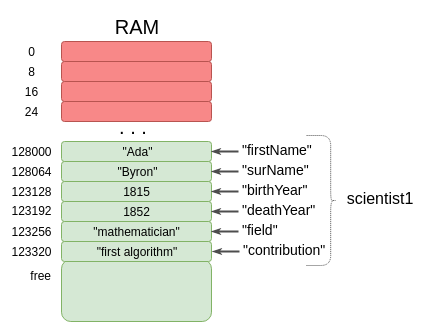
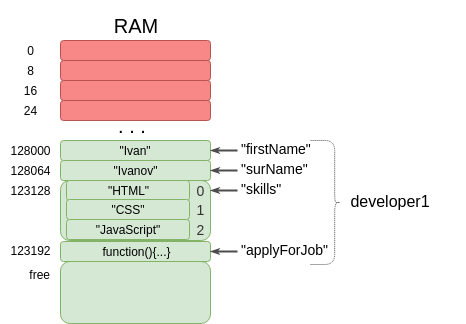
WIP2: JS_Objects Update

Changed region(s): [[0.0307, 0.0619, 0.9835, 1.0], [0.0307, 0.1238, 0.0922, 0.3715], [0.7376, 0.4025, 0.7683, 0.4334]]

diff --git a/pages/themes/beginners/JS_Objects/JS_Objects.html b/pages/themes/beginners/JS_Objects/JS_Objects.html
@@ -78,54 +78,107 @@
             <dt>Когато в дадено свойство имаме функция, тогава това свойство се нарича <span class="note">метод</span> на обекта</dt>            
         </dl>
     </section>
-    <section>
-        <pre><code rel="JS" class="js">
-            var scientist1 = {
-              "firstName": "Ada",
-              "surName": "Byron",
-              "gender" : "female",
-              "lived": [1815, 1852],
-              "profession": "mathematician",
-              "contribution": "implementation of the first ever algorithm, i.e. computer program",
-              "present": function(){
-                  var subjPronoun = (this.gender == "female") ? "She" : "He"; 
-                  var objPronoun = (this.gender == "female") ? "Her" : "His"; 
-                  var str = `${this.firstName} ${this.surName} was a great ${this.profession}. ${subjPronoun} was born in ${this.lived[0]}, and died in ${this.lived[1]}. ${objPronoun} main contribution was the ${this.contribution}.
-                  `;
-                  console.log( str );
-              }
+    <section id="developerObjectByLiteral">
+        <p>Пример за обект:</p>
+        <pre><code rel="JS" class="js bigFont">
+            var developer1 = {
+                // properties:
+                "firstName"     : "Ivan", 
+                "surName"       : "Ivanov",      
+                "skills"        : ["HTML", "CSS", "JavaScript"],
+                // methods:
+                "applyForJob"   : function(){
+                    console.log( this.firstName + " is applying for job!")
+                }
             }
-            
-
-
         </code></pre>
         <dl class="fa">
-            <dt>Редът на </dt>
+            <dt>Редът на създаване на свойствата няма никакво значение, тъй като данните в обектите не са подредени!</dt>
         </dl>
     </section>
+    <section>
+        <p>Ето как, съвсем обобщено, изглежда един обект в паметта:</p>
+        <a href="images/JS_ObjectInRAM_1.png" title="click for bigger image"><img src="images/JS_ObjectInRAM_1.png"></a>
+    </section>
 </section>
-<section><h2>Създаване на еденичен обект</h2>
+
+<section><h2>Създаване на единичен обект</h2>
     <section><h3>Чрез литерал - предпочитания вариант</h3>
         <pre><code rel="JS" class="js">
-            var obj = {}; // създава празен обект
+            // създаване празен обект:
+            var obj = {};
 
+            // създаване на обект с 4 свойства:
             var car1 = {
-                brand: "ford",
-                year: 2016,
-                color: "red",
-                doors: 3   
+                "brand" : "ford",
+                "year"  : 2016,
+                "color" : "red",
+                "doors" : 3   
             }
         </code></pre>
+        <p class="note">Забележете, че след последния елемент на обекта не се слага запетайка!</p>
     </section>
     <section><h3>Чрез глобалния обект Object</h3>
+        <pre><code rel="JS" class="js">
+            var obj = new Object();
+        </code></pre>
+        <p class="note">Този начин за създаване на обект, вече не се използва!</p>
+        <p>Внимавайте да не объркате този вариант с използването на конструктор на обекти, който ще бъде разгледан по-нататък:</p>
+        <pre><code rel="JS" class="js">
+            var obj = new Car();
+        </code></pre>
+    </section>
+</section>
+
+<section><h2>Достъп до свойствата на обект</h2>
+    <section><h3>Чрез точка (Dot Notation)</h3>
+        <pre><code rel="Syntax" class="js">
+            object_name.property_name
+        </code></pre>
+        <p>Ако използваме обекта <code>developer1</code>, създаден <a href="#developerObjectByLiteral">по-горе</a>, то за да достъпим неговите свойства: </p>
+        <pre><code rel="JS" class="js">
+            console.log( developer1.firstName ); //Ivan
+            console.log( developer1.surName );   //Ivanov
+
+            console.log( developer1.skills );    
+            // ["HTML", "CSS", "JavaScript"]
+
+            console.log( developer1.skills[0] ); //"HTML"
+
+            console.log( developer1.applyForJob() ); 
+            // Ivan is applying for job!
+
+            developer1.firstName = "Stoyan";
+            // промяна на свойството "firstName"
+        </code></pre>
+    </section>
+    <section><h3>Чрез квадратни скоби (Square-bracket Notation)</h3>
+        <pre><code rel="Syntax" class="js">
+            object_name[variable_holding_property_name]
+        </code></pre>
+        <p>Отново ще използваме обекта <a href="#developerObjectByLiteral"><code>developer1</code></a></p>
+        <pre><code rel="JS" class="js">
+            // променлива, в която съхраняваме име на свойство:
+            var propName = "firstName";
+            console.log( developer1[propName] ); // Ivan
+
+            developer1[propName] = "Marin"; // променяме свойството "propName"
+        </code></pre>
+    </section>
+</section>
+
+<section><h2>Задачи за упражнение</h2>
+    <section><h3>Task1: developer2 object</h3>
 
     </section>
 </section>
 
 <section class="disclaimer" data-background="/ProgressBG-Front-End-Dev/outfit/images/for_slides/the_end_on_sand.jpg">
      <p>These slides are based on</p>
-     <p>customised version of </p>
-     <p><a href="http://hakim.se/">Hakimel</a>'s <a href="http://lab.hakim.se/reveal-js">reveal.js</a></p>
+     <p>customised version of</p>
+     <p><a href="http://hakim.se/">Hakimel</a>'s <a href="http://lab.hakim.se/reveal-js">reveal.js</a>
+
+     </p>
      <p>framework</p>
 </section>
 <!--

diff --git a/pages/themes/beginners/JS_Objects/examples/slides/objectCreateion.html b/pages/themes/beginners/JS_Objects/examples/slides/objectCreateion.html
@@ -5,45 +5,7 @@
 </head>
 <body>
 	<script type="text/javascript">
-		var scientist1 = {
-      "firstName": "Ada",
-      "surName": "Byron",
-      "gender" : "female",
-      "lived": [1815, 1852],
-      "profession": "mathematician",
-      "contribution": "implementation of the first ever algorithm, i.e. computer program",
-      "present": function(){
-          var subjPronoun = (this.gender == "female") ? "She" : "He"; 
-          var objPronoun = (this.gender == "female") ? "Her" : "His"; 
-
-          var str = `${this.firstName} ${this.surName} was a great ${this.profession}. ${subjPronoun} was born in ${this.lived[0]}, and died in ${this.lived[1]}. ${objPronoun} main contribution was the <b>${this.contribution}</b>.
-          `;
-
-          document.write( str + "<br><br>");
-      }
-  	};
-
-  	var scientist2 = {
-      "firstName": "Ludwig",
-      "surName": "Wittgenstein",
-      "gender" : "male",
-      "lived": [1889, 1951],
-      "profession": "mathematician and logician",
-      "contribution": "creation of picture theory of language, great ideas in philosophy of mathematics",
-      "present": function(){
-          var subjPronoun = (this.gender == "female") ? "She" : "He"; 
-          var objPronoun = (this.gender == "female") ? "Her" : "His";
-
-          var str = `${this.firstName} ${this.surName} was a great ${this.profession}. ${subjPronoun} was born in ${this.lived[0]}, and died in ${this.lived[1]}. ${objPronoun} main contribution was the <b>${this.contribution}</b>.
-          `;
-
-          document.write( str + "<br><br>");
-      }
-    }
-
-
-  	scientist1.present();
-  	scientist2.present();
+		
 
 	</script>
 </body>

diff --git a/pages/themes/beginners/JS_Objects/examples/slides/objectConstructorWithPrototypeExample.html b/pages/themes/beginners/JS_Objects/examples/slides/objectConstructorWithPrototypeExample.html
@@ -1,0 +1,46 @@
+<!DOCTYPE html>
+<html>
+<head>
+	<title>Object Prototype Example</title>
+</head>
+<body>
+	<script type="text/javascript">
+    var DeveloperConstrucor = function(firstName, surName, skills){
+      this.firstName = firstName;
+      this.surName = surName;
+      this.skills = skills;            
+    }
+
+    // функцията се копира в паметта един единствен път, без значение колко
+    // обекта ще генерираме. Всеки обект има достъп до нея чрез механизмът на
+    // наследяване в JavaScript, който се разглежда детайлно в Advanced JavaScript курса.
+    DeveloperConstrucor.prototype.applyForJob = function(){
+        var skillsStr = "";
+        var skillEndStr = ", ";
+
+        for (var i = 0; i < this.skills.length; i++) {
+          if(i == (this.skills.length - 1)){
+            skillEndStr = "";
+          }
+          skillsStr += this.skills[i] + skillEndStr;
+        }
+
+        console.log(`Hi, I'm ${this.firstName} ${this.surName}. My strongest skills are ${skillsStr}.`);      
+    }
+
+		var developer1 = new DeveloperConstrucor(
+      "Ivan", "Ivanov", 
+      ["HTML", "CSS", "JavaScript"]
+    );
+
+    var developer2 = new DeveloperConstrucor(
+      "Maria", "Mineva",
+      ["HTML", "CSS", "JavaScript", "Python", "RestAPIs"] 
+    );
+
+    developer1.applyForJob();
+    developer2.applyForJob();
+
+	</script>
+</body>
+</html>

diff --git a/pages/themes/beginners/JS_Objects/examples/slides/objectConstructorExample.html b/pages/themes/beginners/JS_Objects/examples/slides/objectConstructorExample.html
@@ -1,0 +1,45 @@
+<!DOCTYPE html>
+<html>
+<head>
+	<title>Object Constructor Example</title>
+</head>
+<body>
+  <!-- 16 5361.75 %  52 6965.58 %  (anonymous)objectConstruct…Example.html:7  -->
+	<script type="text/javascript">
+    var DeveloperConstrucor = function(firstName, surName, skills){
+      this.firstName = firstName;
+      this.surName = surName;
+      this.skills = skills;
+      // макар и написана само веднъж, тази функция ще се копира в паметта
+      // толкова пъти, колкото обекти създадем, което не е ефективно при
+      // по-големи приложения
+      this.applyForJob = function(){
+        var skillsStr = "";
+        var skillEndStr = ", ";
+
+        for (var i = 0; i < this.skills.length; i++) {
+          if(i == (this.skills.length - 1)){
+            skillEndStr = "";
+          }
+          skillsStr += this.skills[i] + skillEndStr;
+        }
+
+        console.log(`Hi, I'm ${this.firstName} ${this.surName}. My strongest skills are ${skillsStr}.`);      
+      }
+    }
+		var developer1 = new DeveloperConstrucor(
+      "Ivan", "Ivanov", 
+      ["HTML", "CSS", "JavaScript"]
+    );
+
+    var developer2 = new DeveloperConstrucor(
+      "Maria", "Mineva",
+      ["HTML", "CSS", "JavaScript", "Python", "RestAPIs"] 
+    );
+
+    developer1.applyForJob();
+    developer2.applyForJob();
+
+	</script>
+</body>
+</html>

diff --git a/pages/themes/beginners/JS_Objects/examples/slides/objectLiteralsExample.html b/pages/themes/beginners/JS_Objects/examples/slides/objectLiteralsExample.html
@@ -1,0 +1,38 @@
+<!DOCTYPE html>
+<html>
+<head>
+	<title>Object Literals Example</title>
+</head>
+<body>
+  
+	<script type="text/javascript">
+    // забележете колко много повтарящ се код имаме, когато създаваме еднотипни обекти чрез литерали!    
+		var developer1 = {
+      "firstName" : "Ivan", 
+      "surName"   : "Ivanov",      
+      "skills"     : ["HTML", "CSS", "JavaScript"],
+
+      "applyForJob": function(){
+        var skillsStr = this.skills.toString();
+
+        console.log(`Hi, I'm ${this.firstName} ${this.surName}. My strongest skills are ${skillsStr}.`);      
+      }
+    }
+    var developer2 = {
+      "firstName" : "Maria", 
+      "surName"   : "Mineva",      
+      "skills"     : ["HTML", "CSS", "JavaScript", "Python", "RestAPIs"],
+
+      "applyForJob": function(){
+        var skillsStr = this.skills.toString();
+
+        console.log(`Hi, I'm ${this.firstName} ${this.surName}. My strongest skills are ${skillsStr}.`);      
+      }
+    }
+
+    developer1.applyForJob();
+    developer2.applyForJob();
+
+	</script>
+</body>
+</html>
